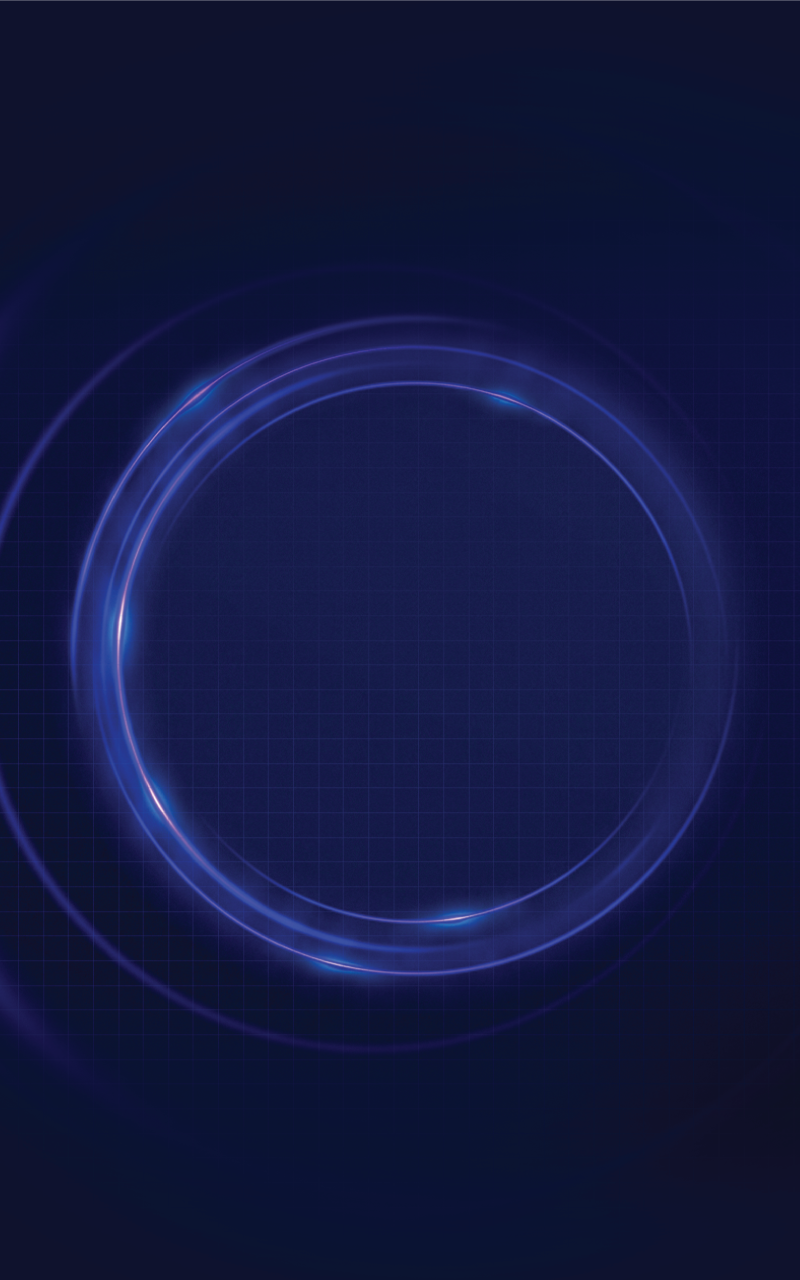
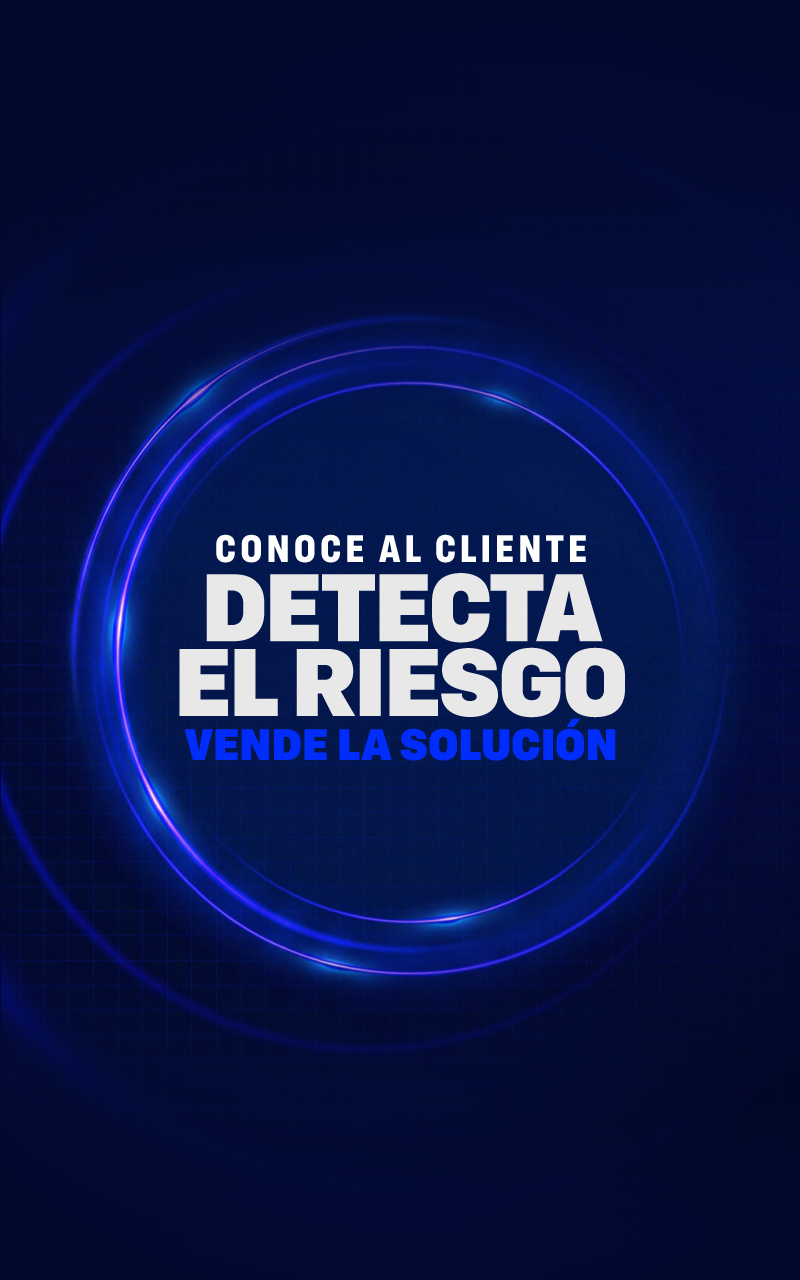
Terminando la pagina de Welcome

diff --git a/src/components/Welcome/Welcome.module.css b/src/components/Welcome/Welcome.module.css
@@ -17,12 +17,12 @@
 .ring {
   width: 100%;
   max-width: 640px;
-  padding: var(--spacing-xl) var(--spacing-lg);
+  padding: var(--spacing-xxl) var(--spacing-lg) var(--spacing-sm) var(--spacing-lg);
   aspect-ratio: 1 / 1;
   display: flex;
   flex-direction: column;
   align-items: center;
-  justify-content: center;
+  justify-content: flex-end;
   gap: var(--spacing-md);
 }
 
@@ -31,6 +31,7 @@
   align-items: center;
   gap: var(--spacing-sm);
   font-family: var(--font-family-heading);
+  margin-bottom: var(--spacing-xxl);
 }
 
 .logoMark {

diff --git a/src/components/Welcome/Welcome.jsx b/src/components/Welcome/Welcome.jsx
@@ -47,15 +47,7 @@ function Welcome() {
         </article>
       
       <div className={styles.ring}>
-        <h1 className={styles.headline}>
-          Conoce al cliente
-          <strong>
-            Detecta
-            <br />
-            el riesgo
-          </strong>
-          Vende la solución
-        </h1>
+       
 
         <button className={styles.primaryButton} onClick={() => navigate('/criterios')}>
           Iniciar

diff --git a/src/styles/variables.css b/src/styles/variables.css
@@ -35,7 +35,7 @@
   --spacing-md: calc(var(--spacing-unit) * 2);
   --spacing-lg: calc(var(--spacing-unit) * 4);
   --spacing-xl: calc(var(--spacing-unit) * 6);
-
+   --spacing-xxl: calc(var(--spacing-unit) * 18);
   /* Layout */
   --radius-base: 10px;
   --radius-pill: 999px;
